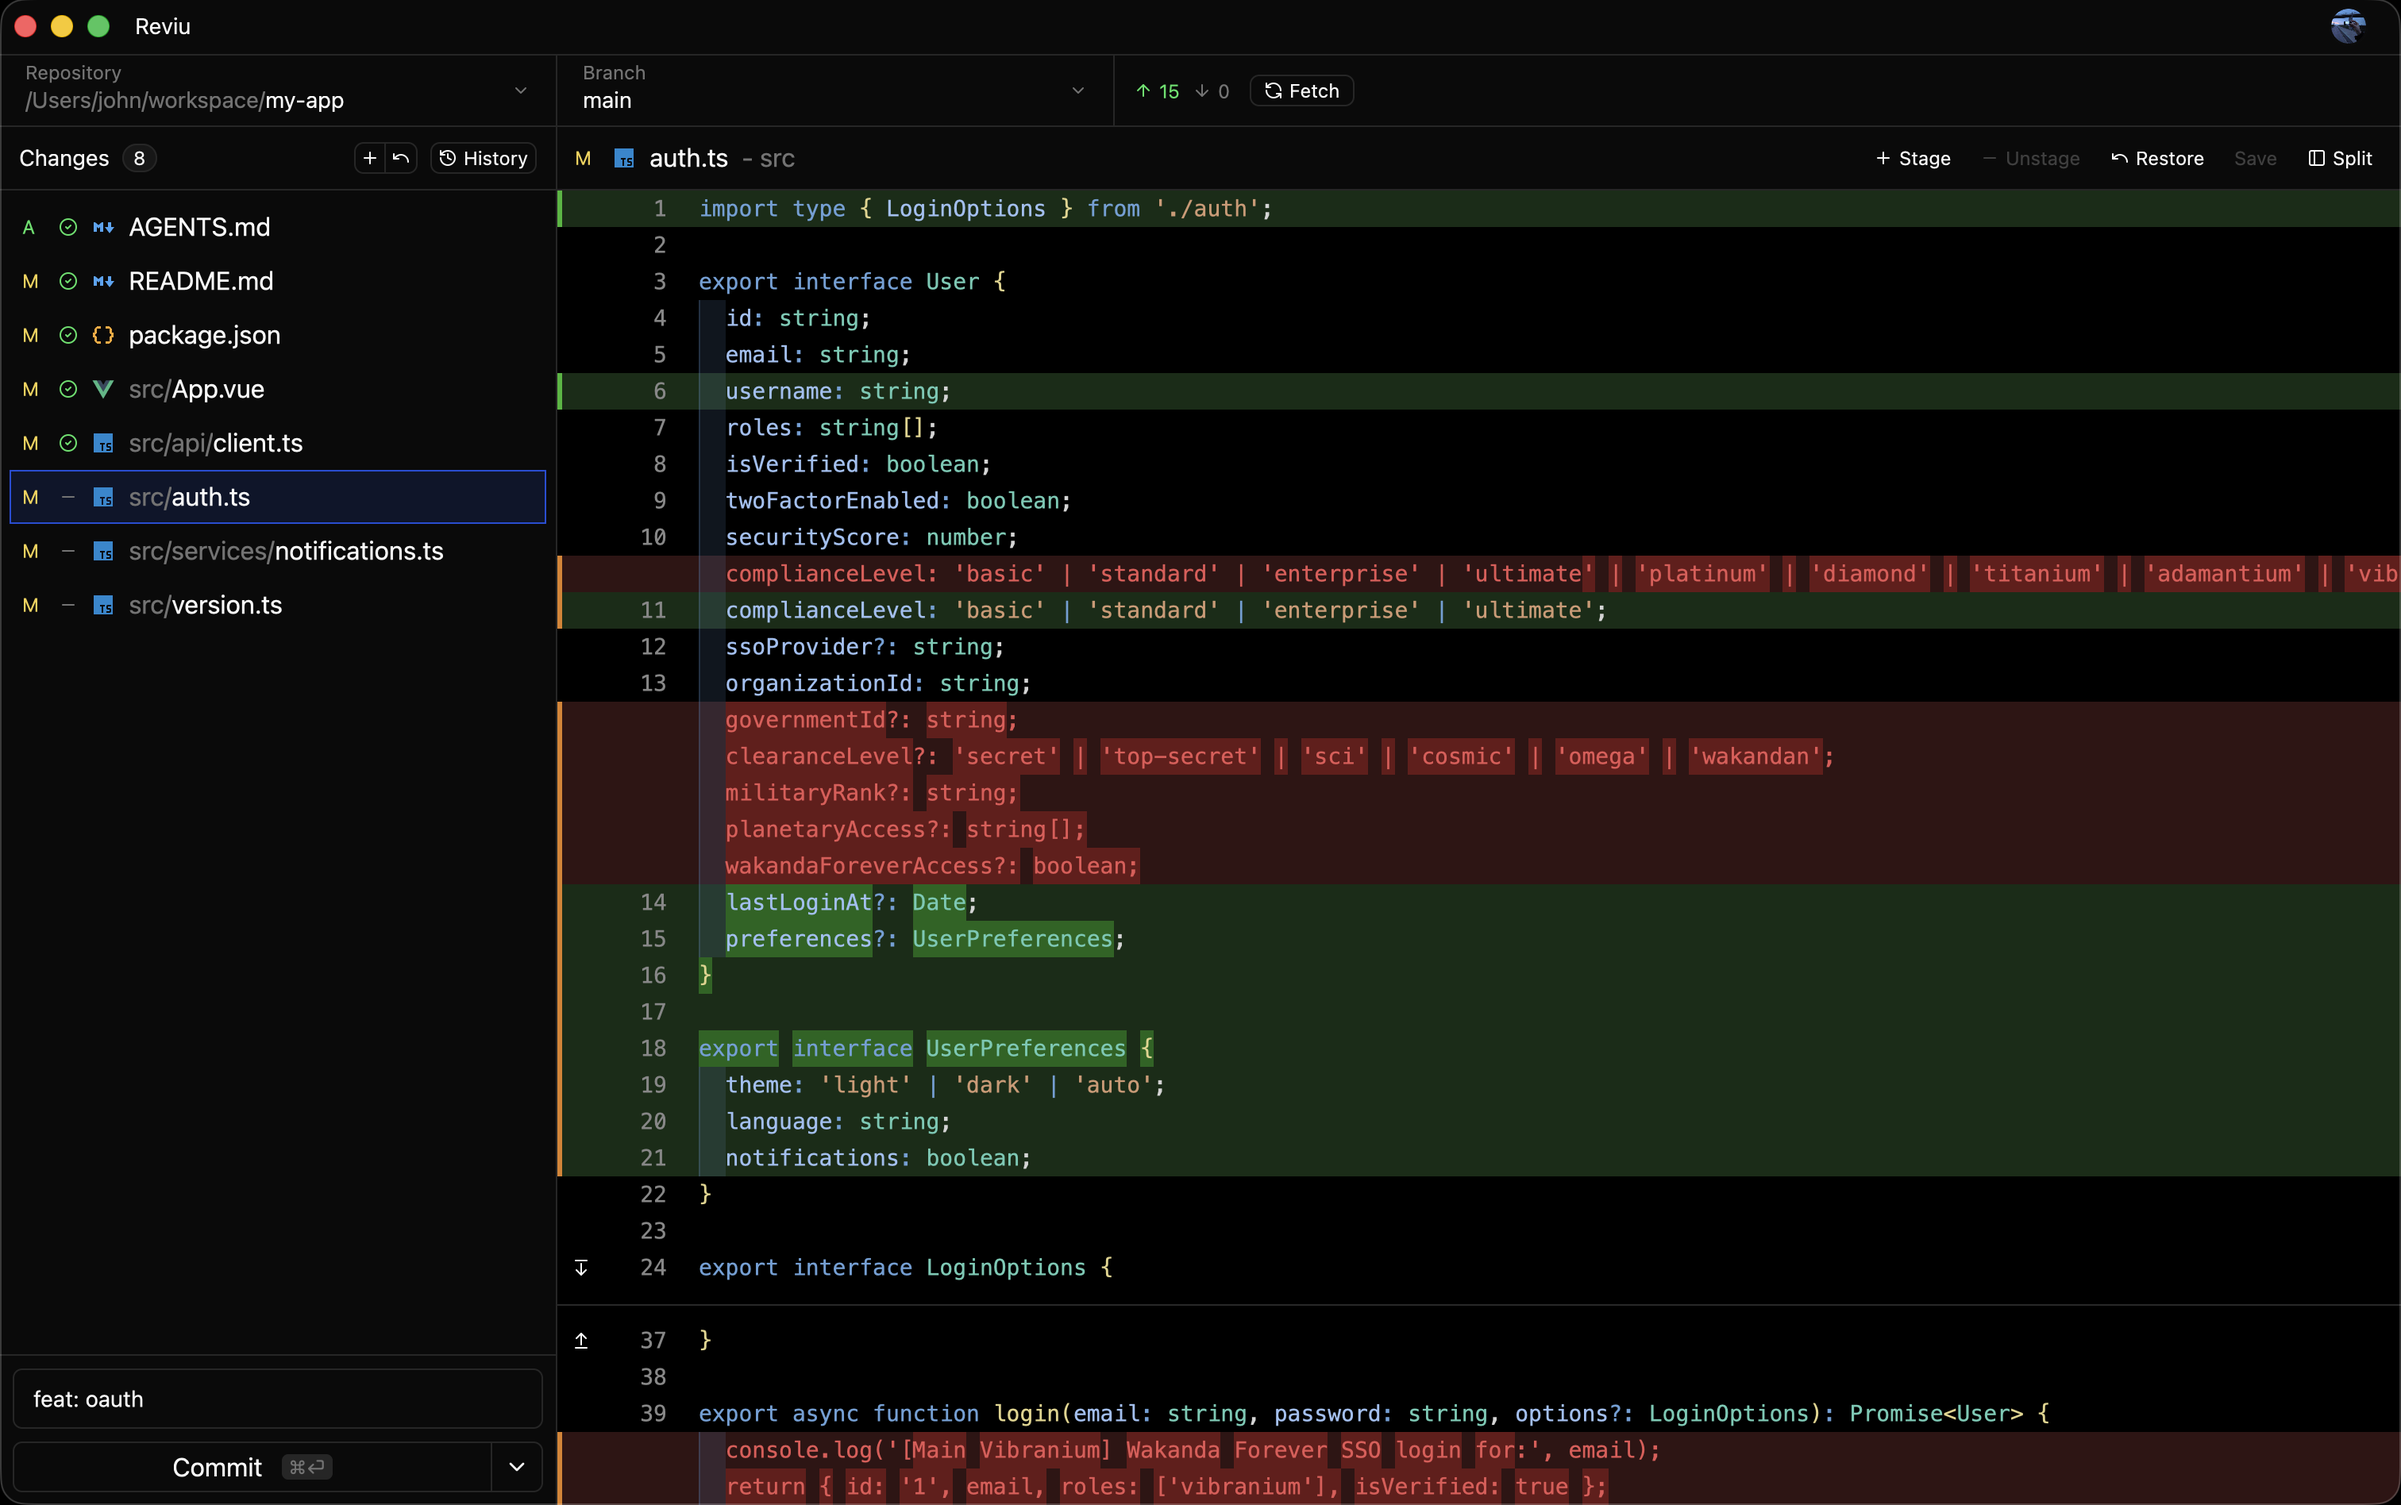
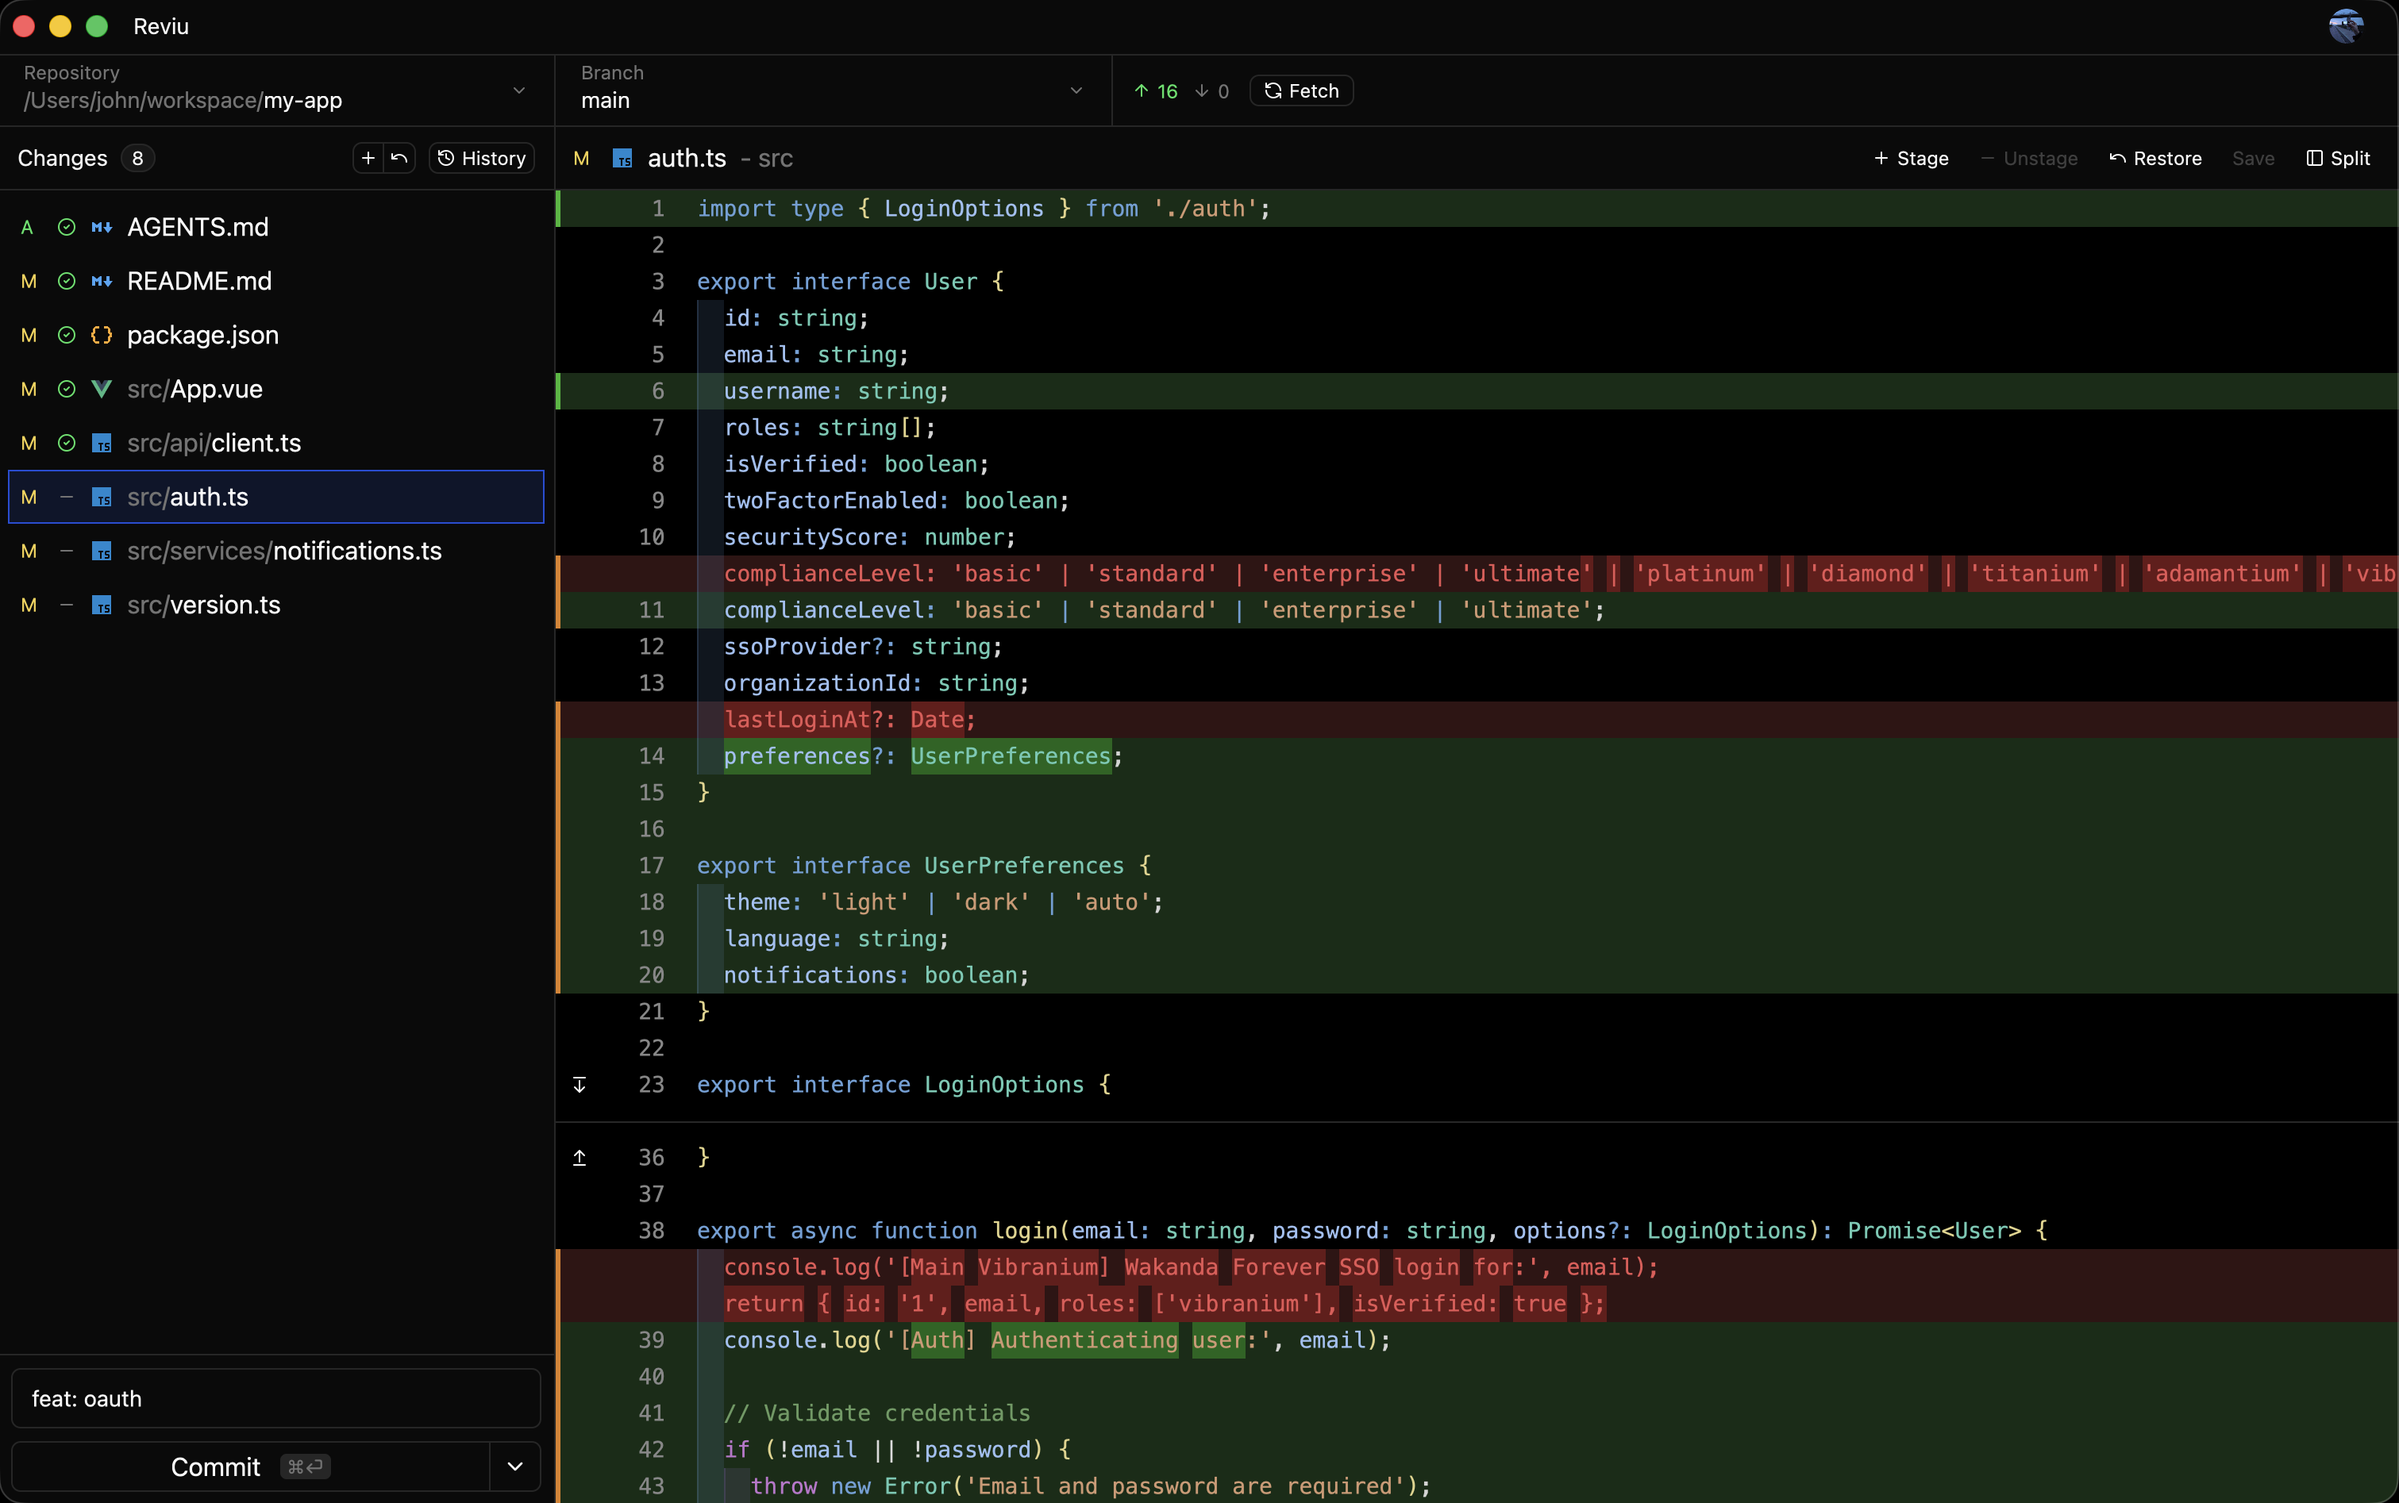
feat: update screens

diff --git a/landing/src/components/Hero.vue b/landing/src/components/Hero.vue
@@ -59,7 +59,7 @@ import git_light from '../assets/app_screenshots/git_light.png'
         <div class="max-w-3xl flex-none sm:max-w-5xl lg:max-w-none">
           <div class="-m-2 rounded-xl bg-gray-900/5 p-2 ring-1 ring-gray-900/10 ring-inset lg:-m-4 lg:rounded-2xl lg:p-4 dark:bg-white/2.5 dark:ring-white/10">
             <img :src="git_light.src" alt="Reviu desktop interface preview" width="2432" height="1442" class="w-304 rounded-[13px] bg-white/0 shadow-xl ring-1 ring-gray-900/10 dark:hidden" />
-            <img :src="git_dark.src" alt="Reviu desktop interface preview" width="2432" height="1442" class="w-304 rounded-[13px] bg-white/5 shadow-2xl ring-white/10 not-dark:hidden" />
+            <img :src="git_dark.src" alt="Reviu desktop interface preview" width="2432" height="1442" class="w-304 rounded-[13px] bg-white/5 shadow-2xl ring-1 ring-white/10 not-dark:hidden" />
           </div>
         </div>
       </div>
